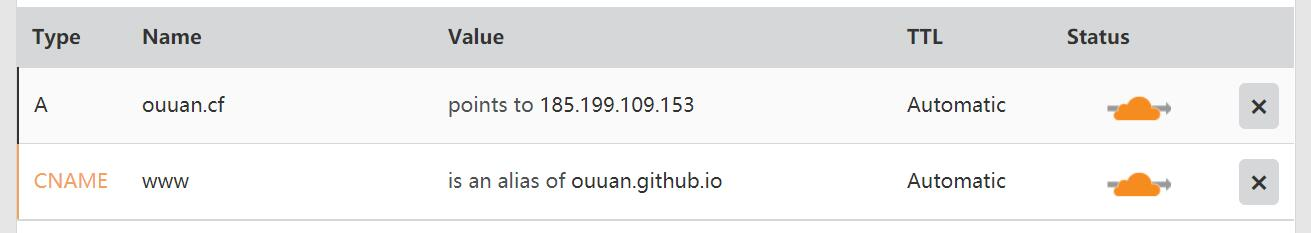
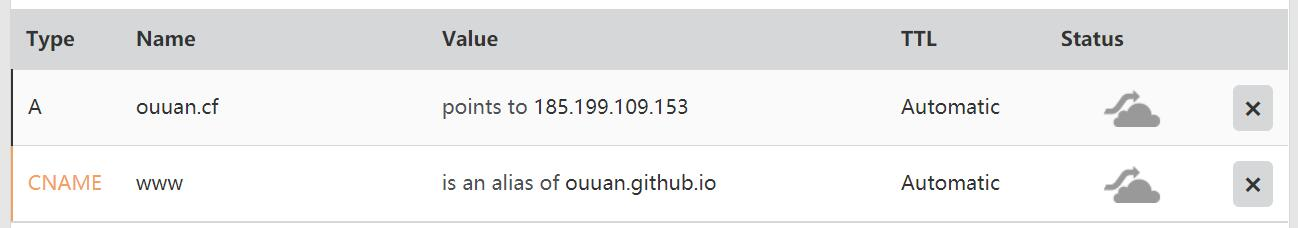
Site updated: 2018-12-08 21:08:12

diff --git a/hexo博客搭建指北/index.html b/hexo博客搭建指北/index.html
@@ -141,7 +141,7 @@
 <meta property="og:image" content="http://www.ouuan.cf/hexo博客搭建指北/pic1.jpg">
 <meta property="og:image" content="http://www.ouuan.cf/hexo博客搭建指北/pic2.jpg">
 <meta property="og:image" content="http://www.ouuan.cf/hexo博客搭建指北/refpic.jpg">
-<meta property="og:updated_time" content="2018-12-08T10:24:45.709Z">
+<meta property="og:updated_time" content="2018-12-08T13:07:42.328Z">
 <meta name="twitter:card" content="summary">
 <meta name="twitter:title" content="hexo博客搭建指北">
 <meta name="twitter:description" content="折腾了 $3$ 天终于把博客搭建好了…本文会简单介绍一下hexo博客的搭建，并选取一些我自己在配置博客的过程中遇到的问题，说明一下我的解决方案。 实际上，hexo博客的搭建并不难，难搞的是美化，我在这个过程中遇到了很多问题，不可能在这篇博客中全部陈述出来，最重要的还是勤于百度。  本篇博客不完全按照顺序撰写，可以通过页面左边的目录跳转阅读。  博客的搭建先推荐两篇比较好的教程：搭建个人博客-hex">
@@ -453,7 +453,7 @@
                 
                   <span class="post-meta-item-text">更新于</span>
                 
-                <time title="修改时间：2018-12-08 18:24:45" itemprop="dateModified" datetime="2018-12-08T18:24:45+08:00">2018-12-08</time>
+                <time title="修改时间：2018-12-08 21:07:42" itemprop="dateModified" datetime="2018-12-08T21:07:42+08:00">2018-12-08</time>
               
             
           </span>
@@ -545,7 +545,7 @@
 <p><img src="/hexo博客搭建指北/www.jpg" alt=""></p>
 <p><img src="/hexo博客搭建指北/at.jpg" alt=""></p>
 <figure class="highlight plain"><table><tr><td class="gutter"><pre><span class="line">1</span><br></pre></td><td class="code"><pre><span class="line">185.199.109.153</span><br></pre></td></tr></table></figure>
-<p>当然要记得把“yourname”换成你的 GitHub ID。点击”Add Record”添加记录。</p>
+<p>当然要记得把“yourname”换成你的 GitHub ID。推荐关闭 cdn 服务，即点击一下橙色的云使其变成灰色。</p>
 <p>完成后应该是这样的：</p>
 <p><img src="/hexo博客搭建指北/dns.jpg" alt=""></p>
 <h2 id="连接域名和-DNS"><a href="#连接域名和-DNS" class="headerlink" title="连接域名和 DNS"></a>连接域名和 DNS</h2><p>回到 <a href="https://my.freenom.com/domains.php" target="_blank" rel="noopener">Freenom</a>，登录网站，点击右上角的“Services” $\rightarrow$ “My Domains”，找到你刚刚获取的域名，点击 “Manage Domain” $\rightarrow$ “Management Tools” $\rightarrow$ “Nameservers”。</p>

diff --git a/index.html b/index.html
@@ -601,7 +601,7 @@ $\
                 
                   <span class="post-meta-item-text">更新于</span>
                 
-                <time title="修改时间：2018-12-08 18:24:45" itemprop="dateModified" datetime="2018-12-08T18:24:45+08:00">2018-12-08</time>
+                <time title="修改时间：2018-12-08 21:07:42" itemprop="dateModified" datetime="2018-12-08T21:07:42+08:00">2018-12-08</time>
               
             
           </span>

diff --git a/css/main.css b/css/main.css
@@ -1859,7 +1859,7 @@ pre .javascript .function {
   width: 4px;
   height: 4px;
   border-radius: 50%;
-  background: #7528ff;
+  background: #2dff78;
 }
 .links-of-blogroll {
   font-size: 13px;
